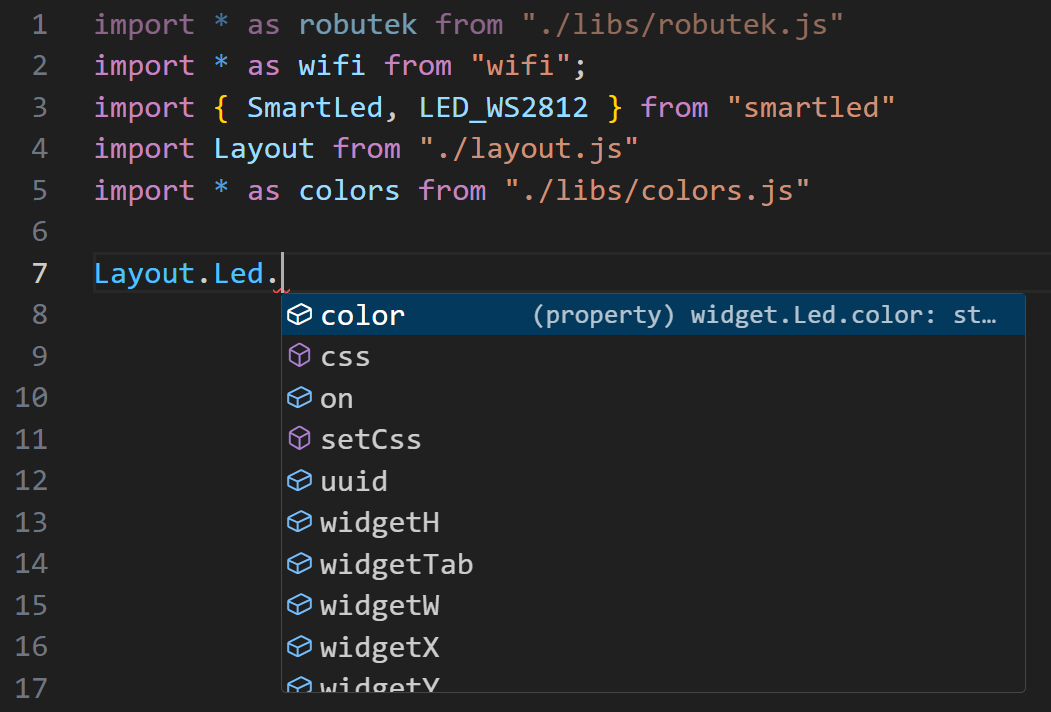
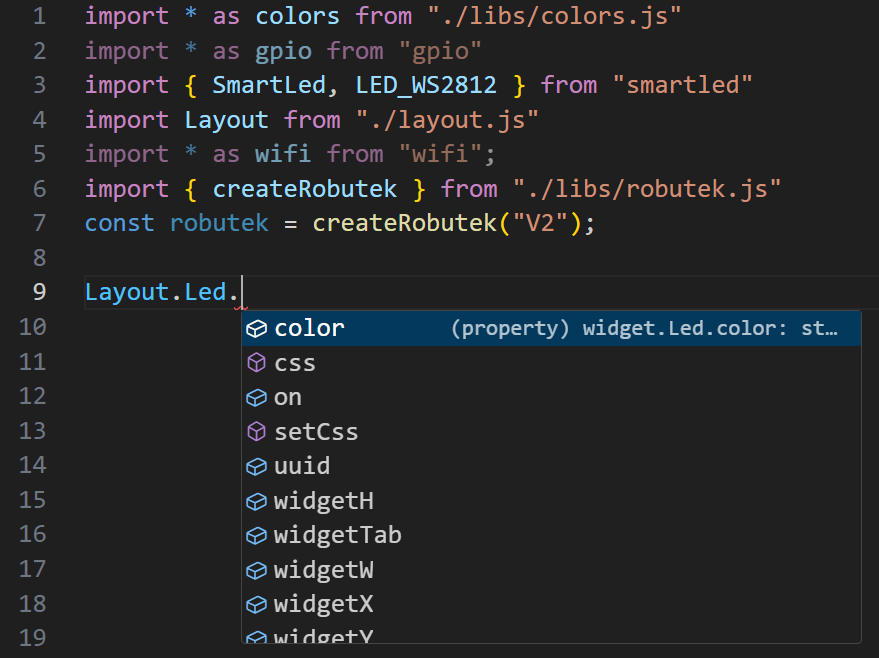
edit: updated example code to new library

Changed region(s): [[0.0922, 0.0, 0.9829, 1.0], [0.0, 0.4863, 0.0614, 1.0], [0.0307, 0.0, 0.0614, 0.4559]]

diff --git a/docs/v2/robot/lekceGridUI/colors-gridui/src/index.ts b/docs/v2/robot/lekceGridUI/colors-gridui/src/index.ts
@@ -1,14 +1,16 @@
-import * as robutek from "./libs/robutek.js"
-import * as wifi from "wifi";
+import * as colors from "./libs/colors.js"
+import * as gpio from "gpio"
 import { SmartLed, LED_WS2812 } from "smartled"
 import Layout from "./layout.js"
-import * as colors from "./libs/colors.js"
+import * as wifi from "wifi";
+import { createRobutek } from "./libs/robutek.js"
+const robutek = createRobutek("V2");
 
 const ledStrip = new SmartLed(48, 1, LED_WS2812);  // připojí pásek na pin 48, s 1 ledkou a typem WS2812
 
 // Změň mě!
 const OWNER = "owner";
-const DEVICE_NAME = "robutek";
+const DEVICE_NAME = "Robutek";
 
 let text = "#ffffff";
 let r = "ff"
@@ -33,7 +35,7 @@ function colorToHexString(color:colors.Rgb) { //překládá barvu na string pož
 }
 
 setInterval(() => {
-    Layout.Led.on = !Layout.Led.on; // bliká ledkou na rozhraní
+    Layout.Led.on = !Layout.Led.on; // bliká ledkou na rozhraní GridUI
 }, 500);
 
 
@@ -44,7 +46,9 @@ Layout.begin(OWNER, DEVICE_NAME, builder => {
         text = colorToHexString(colors.rainbow(slider.value));
         Layout.Led.color = text; // nastavuje barvu ledky na rozhraní
         Layout.Text.text = text; // vypisuje rgb kód v textovém poli na rozhraní
+        
     })
 });
 
-console.log("Otevři aplikaci RBController nebo otevři prohlížeč a zadej IP: http://" + wifi.currentIp() + " pro ovládání robota.");
+//console.log("Otevři aplikaci RBController nebo otevři prohlížeč a zadej IP: http://" + wifi.currentIp() + " pro ovládání robota.");
+Layout.SetColor.value = 180
